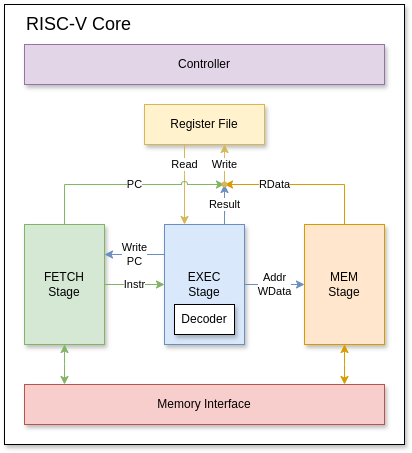
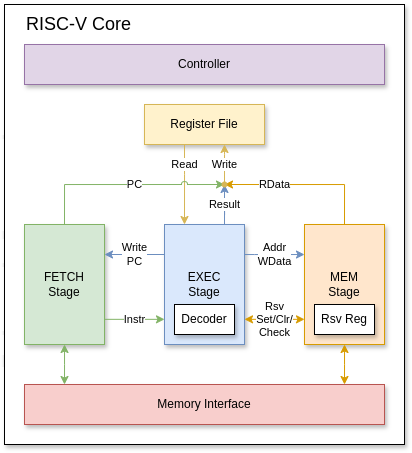
docs: extend core.md to include atomic instructions

diff --git a/doc/core.md b/doc/core.md
@@ -35,7 +35,7 @@ The `FETCH` stage outputs its PC to be written back to the Register File for the
 
 ### `EXEC` Stage
 The `EXEC` stage decodes the instructions using the [Decoder](#decoder), accesses the Register File to obtain the operand values,
-and executes the instructions using its ALU.
+and executes the instructions using one of its compute engine: `ALU`, `MUL` (multiplier), or `DIV` (divider).
 It accomplishes all of its tasks in only 1 cycle (ignore reality for now).
 
 If a command is neither `LOAD` nor `STORE`, the `EXEC` stage passes the control back to the `FETCH` stage to start a new command.
@@ -56,6 +56,12 @@ In case of a `LOAD`, the `RData` is written back to the Register File.
 
 The `MEM` stage also handles bit-extension for byte and half-word accesses.
 
+The `MEM` stage contains a reservation register for LR/SC commands.
+This register stores the most recent LR address,
+which is invalidated if the `MEM` stage encounters any store with the same address or an `SC` instruction.
+This register is exposed to the `EXEC` stage via a set/check/clear interface.
+The size of the reservation set is 4 bytes.
+
 Misaligned access is not allowed and will raise an exception.
 
 ### Register File
@@ -72,54 +78,44 @@ For narrow write transfer, write strobes should be used.
 ## Decoder
 The Decoder is a subcomponent of the `EXEC` stage. Its job is to decode the instruction fetched from the `FETCH` stage
 into the following conditions:
-- Immediate type: `I`, `S`, `B`, `U`, `J`.
-- ALU sources: `RR` (Reg + Reg), `RI` (Reg + Imm), `PI` (PC + Imm), `ZI` (Zero + Imm).
-- ALU operation: `ADD`, `SUB`, `SLT`, `SLTU`, `AND`, `OR`, `XOR`, `SLL`, `SRL`, `SRA`.
-- Write-back source: `NONE`, `ALU`, `PC4`, `MEM`.
+- Immediate type: `Z` (Zero), `I`, `S`, `B`, `U`, `J`.
+- EXEC sources: `RR` (Reg + Reg), `RI` (Reg + Imm), `MR` (Mem + Reg), `PI` (PC + Imm), `ZI` (Zero + Imm).
+- ALU operation: `ADD`, `SUB`, `SLT`, `SLTU`, `AND`, `OR`, `XOR`, `SLL`, `SRL`, `SRA`, `MIN`, `MAX`, `MINU`, `MAXU`,
+`OA` (output `rs1`), `OB` (output `rs2`).
+- MUL operation: `MUL`, `MULH`, `MULHSU`, `MULHU`.
+- DIV operation: `DIV`, `DIVU`, `REM`, `REMU`.
+- EXEC output: `ALU`, `MUL`, `DIV`, `RSV` (reservation).
+- Write-back source: `NONE`, `FETCH` (PC + 4), `EXEC`, `MEM`.
 - PC source: `NONE`, `JUMP`, `BR_Z` (branch on zero), `BR_NZ` (branch on non-zero).
+- Mem sources: `ALU_B` (addr from ALU, data from `rs2`), `LAST_ALU` (addr from last, data from ALU).
 - Mem operation: `NONE`, `READ`, `WRITE`.
 - Mem access size: `B`, `BU`, `H`, `HU`, `W`.
+- Reservation: `NONE`, `RSV_SET`, `RSV_CLEAR`.
 
 ### Decoding table
 
-| Op      | Imm type | ALU src | ALU op | WB src  | PC src  | Mem op  | Access size |
-|---------|----------|---------|--------|---------|---------|---------|-------------|
-| `ADD`   |          | `RR`    | `ADD`  | `ALU`   |         |         |             |
-| `SUB`   |          | `RR`    | `SUB`  | `ALU`   |         |         |             |
-| `SLT`   |          | `RR`    | `SLT`  | `ALU`   |         |         |             |
-| `SLTU`  |          | `RR`    | `SLTU` | `ALU`   |         |         |             |
-| `AND`   |          | `RR`    | `AND`  | `ALU`   |         |         |             |
-| `OR`    |          | `RR`    | `OR`   | `ALU`   |         |         |             |
-| `XOR`   |          | `RR`    | `XOR`  | `ALU`   |         |         |             |
-| `SLL`   |          | `RR`    | `SLL`  | `ALU`   |         |         |             |
-| `SRL`   |          | `RR`    | `SRL`  | `ALU`   |         |         |             |
-| `SRA`   |          | `RR`    | `SRA`  | `ALU`   |         |         |             |
-| `ADDI`  | `I`      | `RI`    | `ADD`  | `ALU`   |         |         |             |
-| `SLTI`  | `I`      | `RI`    | `SLT`  | `ALU`   |         |         |             |
-| `SLTIU` | `I`      | `RI`    | `SLTU` | `ALU`   |         |         |             |
-| `ANDI`  | `I`      | `RI`    | `AND`  | `ALU`   |         |         |             |
-| `ORI`   | `I`      | `RI`    | `OR`   | `ALU`   |         |         |             |
-| `XORI`  | `I`      | `RI`    | `XOR`  | `ALU`   |         |         |             |
-| `SLLI`  | `I`      | `RI`    | `SLL`  | `ALU`   |         |         |             |
-| `SRLI`  | `I`      | `RI`    | `SRL`  | `ALU`   |         |         |             |
-| `SRAI`  | `I`      | `RI`    | `SRA`  | `ALU`   |         |         |             |
-| `LUI`   | `U`      | `ZI`    | `ADD`  | `ALU`   |         |         |             |
-| `AUIPC` | `U`      | `PI`    | `ADD`  | `ALU`   |         |         |             |
-| `JAL`   | `J`      | `PI`    | `ADD`  | `PC4`   | `JUMP`  |         |             |
-| `JALR`  | `I`      | `RI`    | `ADD`  | `PC4`   | `JUMP`  |         |             |
-| `BEQ`   | `B`      | `RR`    | `SUB`  |         | `BR_Z`  |         |             |
-| `BNE`   | `B`      | `RR`    | `SUB`  |         | `BR_NZ` |         |             |
-| `BLT`   | `B`      | `RR`    | `SLT`  |         | `BR_NZ` |         |             |
-| `BGE`   | `B`      | `RR`    | `SLT`  |         | `BR_Z`  |         |             |
-| `BLTU`  | `B`      | `RR`    | `SLTU` |         | `BR_NZ` |         |             |
-| `BGEU`  | `B`      | `RR`    | `SLTU` |         | `BR_Z`  |         |             |
-| `LB`    | `I`      | `RI`    | `ADD`  | `MEM`   |         | `READ`  | `B`         |
-| `LH`    | `I`      | `RI`    | `ADD`  | `MEM`   |         | `READ`  | `H`         |
-| `LW`    | `I`      | `RI`    | `ADD`  | `MEM`   |         | `READ`  | `W`         |
-| `LBU`   | `I`      | `RI`    | `ADD`  | `MEM`   |         | `READ`  | `BU`        |
-| `LHU`   | `I`      | `RI`    | `ADD`  | `MEM`   |         | `READ`  | `HU`        |
-| `SB`    | `S`      | `RI`    | `ADD`  |         |         | `WRITE` | `B`         |
-| `SH`    | `S`      | `RI`    | `ADD`  |         |         | `WRITE` | `H`         |
-| `SW`    | `S`      | `RI`    | `ADD`  |         |         | `WRITE` | `W`         |
+| Op       | Imm type | ALU src | Engine op                   | WB src  | PC src  | Mem op                              | Mem src - size     |
+|----------|----------|---------|-----------------------------|---------|---------|-------------------------------------|--------------------|
+| `OP`     |          | `RR`    | `{funct7[5], funct3}`       | `ALU`   |         |                                     |                    |
+| `OP-IMM` | `I`      | `RI`    | `funct3` (except for `SRA`) | `ALU`   |         |                                     |                    |
+| `LUI`    | `U`      | `ZI`    | `ADD`                       | `ALU`   |         |                                     |                    |
+| `AUIPC`  | `U`      | `PI`    | `ADD`                       | `ALU`   |         |                                     |                    |
+| `JAL`    | `J`      | `PI`    | `ADD`                       | `FETCH` | `JUMP`  |                                     |                    |
+| `JALR`   | `I`      | `RI`    | `ADD`                       | `FETCH` | `JUMP`  |                                     |                    |
+| `BEQ`    | `B`      | `RR`    | `SUB`                       |         | `BR_Z`  |                                     |                    |
+| `BNE`    | `B`      | `RR`    | `SUB`                       |         | `BR_NZ` |                                     |                    |
+| `BLT`    | `B`      | `RR`    | `SLT`                       |         | `BR_NZ` |                                     |                    |
+| `BGE`    | `B`      | `RR`    | `SLT`                       |         | `BR_Z`  |                                     |                    |
+| `BLTU`   | `B`      | `RR`    | `SLTU`                      |         | `BR_NZ` |                                     |                    |
+| `BGEU`   | `B`      | `RR`    | `SLTU`                      |         | `BR_Z`  |                                     |                    |
+| `LOAD`   | `I`      | `RI`    | `ADD`                       | `MEM`   |         | `READ`                              | `ALU_B` - `funct3` |
+| `STORE`  | `S`      | `RI`    | `ADD`                       |         |         | `WRITE`                             | `ALU_B` - `funct3` |
+| `MUL`    |          | `RR`    | `funct3[1:0]`               | `MUL`   |         |                                     |                    |
+| `DIV`    |          | `RR`    | `funct3[1:0]`               | `DIV`   |         |                                     |                    |
+| `LR`     | `Z`      | `RI`    | `ADD`                       | `MEM`   |         | `READ` - `RSV_SET`                  | `ALU_B` - `W`      |
+| `SC`     | `Z`      | `RI`    | `ADD`                       | `RSV`   |         | `WRITE` if rsv. valid - `RSV_CLEAR` | `ALU_B` - `W`      |
+| `AMO-0`  | `Z`      | `RI`    | `ADD`                       | `MEM`   |         | `READ`                              | `ALU_B` - `W`      |
+| `AMO-1`  |          | `MR`    | Decode from `funct5`        | `MEM`   |         | `WRITE`                             | `LAST_ALU` - `W`   |
 
 Empty entries are either `NONE` or N/A (e.g. immediate type is not relevant to R-type operations).
+`AMO` instructions has two `EXEC` and `MEM` phases, hence `AMO-0` and `AMO-1`.
